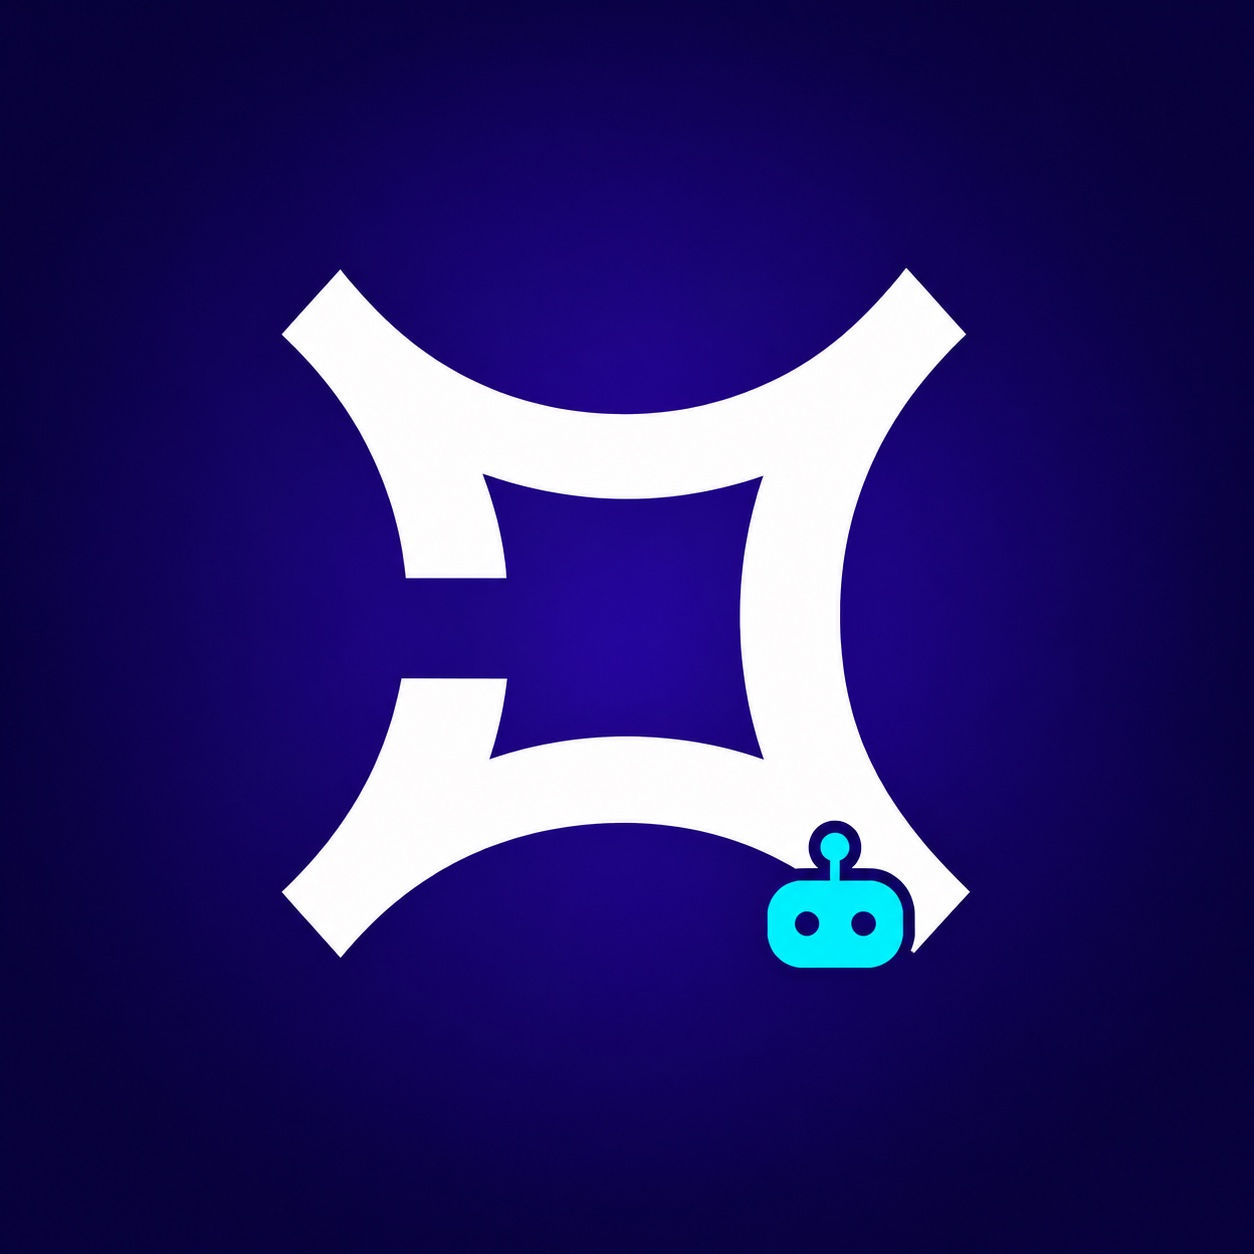
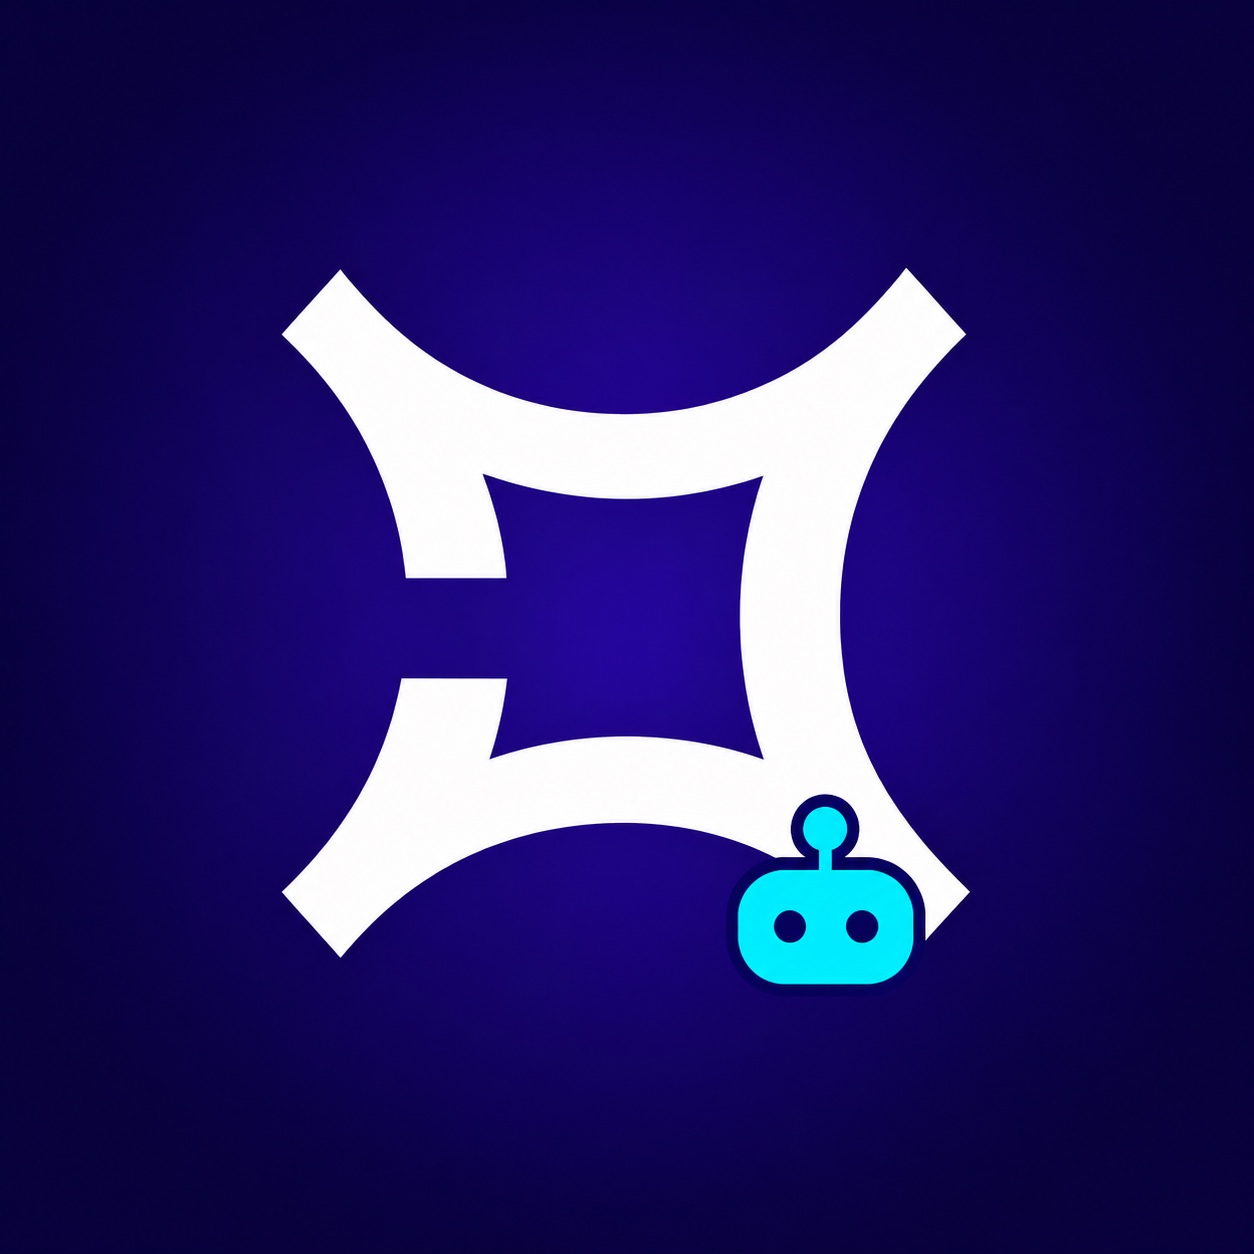
Make Telegram profile badges easier to see

Changed region(s): [[0.5598, 0.622, 0.7464, 0.8086]]

diff --git a/NOTES.md b/NOTES.md
@@ -2,7 +2,7 @@
 
 ## Current status
 
-Both production Telegram bot profile photos use the original Digimium backgrounds with slightly larger badges. The customer bot has the cyan robot and Admin Orders has the gold shield.
+Both production Telegram bot profile photos retain the original Digimium backgrounds and use badges sized for the Telegram chat list. The customer bot has the cyan robot and Admin Orders has the gold shield.
 
 The production Digimium Admin Orders bot has three private topics with the topic sidebar enabled. Orders receives new storefront orders. Running HUB Orders receives new API Key orders, payment receipts and approval confirmations. Account Registration receives new website signups. Standard storefront payment and service delivery continue through the existing workflow. The full website payment and fulfillment rollout stays deferred.
 
@@ -102,7 +102,7 @@ The shared catalog starts with 54 products and 104 plans, including the 50 appro
 
 ## Last thing done
 
-Enlarged the robot and shield badges about 10–13%. Verified that decoded pixels outside each badge edit match the earlier assets, then updated both Telegram profiles and confirmed their new photos.
+Enlarged the customer robot by about 30% and the Admin shield by about 40% from their previous sizes. Verified the circular chat-list crops and exact decoded pixels outside each badge edit, then updated and confirmed both live Telegram profile photos.
 
 Added grouped owner notifications with compact order references, product and plan names, totals and protected Admin links. Telegram checkout drafts show the verified @username if available. The placement response exposes only the Telegram username field. Legacy signed Running HUB approvals still work in their original private chat/topic. Updated the customer login bot and Admin Orders bot profile photos using the Digimium mark with distinct bot badges. The original production webhooks remain active. Node 24 standalone build, typecheck, strict lint, 103 unit tests, and the disposable Running HUB, notifications and commerce integration suites passed.
 
@@ -268,7 +268,7 @@ Tested the Node 24 production server with disposable MariaDB, including concurre
 
 ## Next steps
 
-- Use the updated profile photos as the current source assets for future Telegram profile changes.
+- Use the chat-list-size bot profile photos as the source for future Telegram profile changes.
 
 - Review the next legitimate signup, ordinary order and Running HUB order in their three private owner topics. Keep the testing website payment and fulfillment upgrade deferred until the owner asks to roll it out.
 
